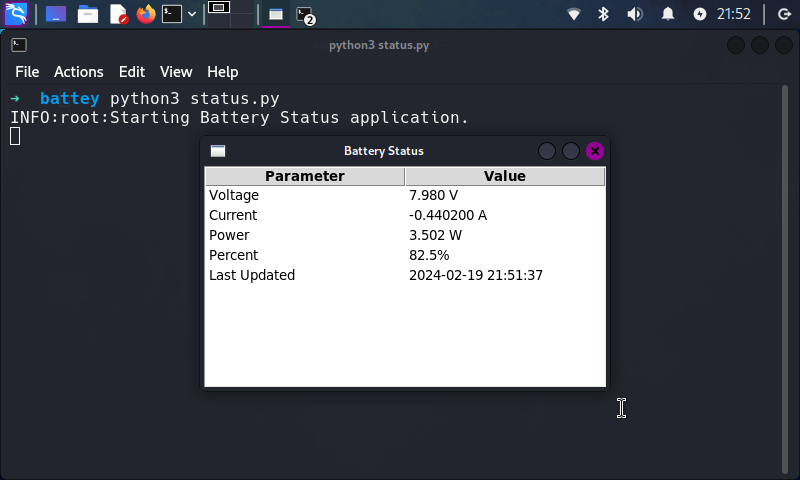
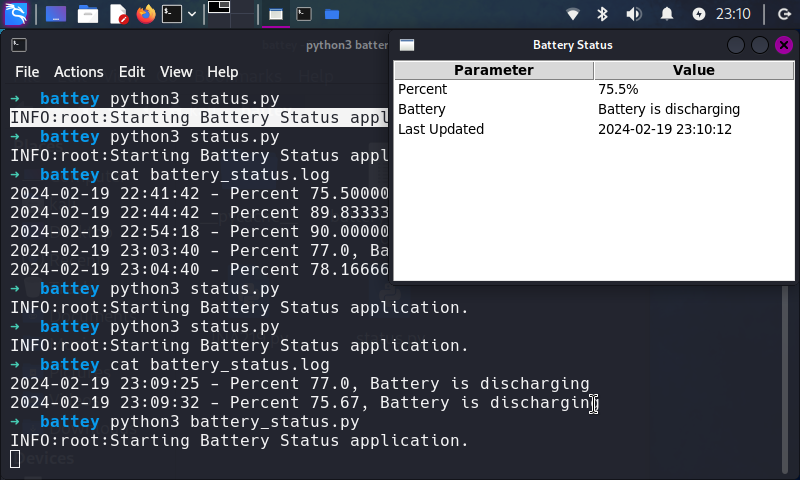
- update log pattern - update image

diff --git a/battery_status_graceful_shutdown.py b/battery_status_graceful_shutdown.py
@@ -69,9 +69,9 @@ class BatteryStatus:
                 # Append the battery status to the log file
                 with open('battery_status.log', 'a') as f:
                     if current < 0:
-                        f.write(f"{now_str} - Percent {p}, Battery is discharging\n")
+                        f.write(f"{now_str} - Percent {round(p,2)}, Battery is discharging\n")
                     else:
-                        f.write(f"{now_str} - Percent {p}, Battery is charging\n")
+                        f.write(f"{now_str} - Percent {round(p,2)}, Battery is charging\n")
 
                 # If battery status is less than 5%, shutdown the system
                 if p < 5:

diff --git a/battery_status.py b/battery_status.py
@@ -68,9 +68,9 @@ class BatteryStatus:
                 # Append the battery status to the log file
                 with open('battery_status.log', 'a') as f:
                     if current < 0:
-                        f.write(f"{now_str} - Percent {p}, Battery is discharging\n")
+                        f.write(f"{now_str} - Percent {round(p,2)}, Battery is discharging\n")
                     else:
-                        f.write(f"{now_str} - Percent {p}, Battery is charging\n")
+                        f.write(f"{now_str} - Percent {round(p,2)}, Battery is charging\n")
 
             except TimeoutException:
                 logging.error('Function call timed out')
